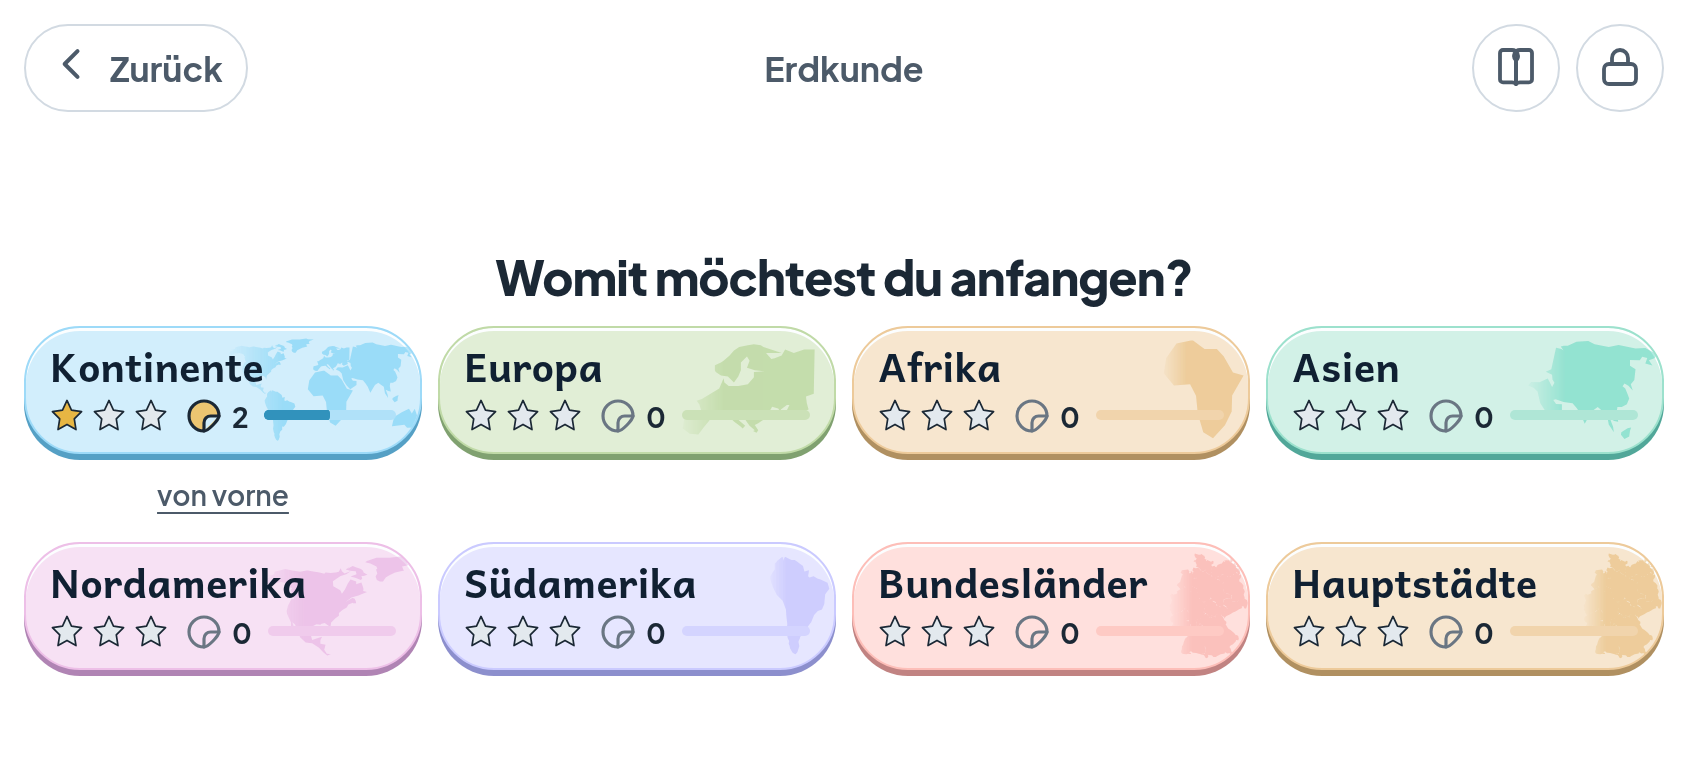
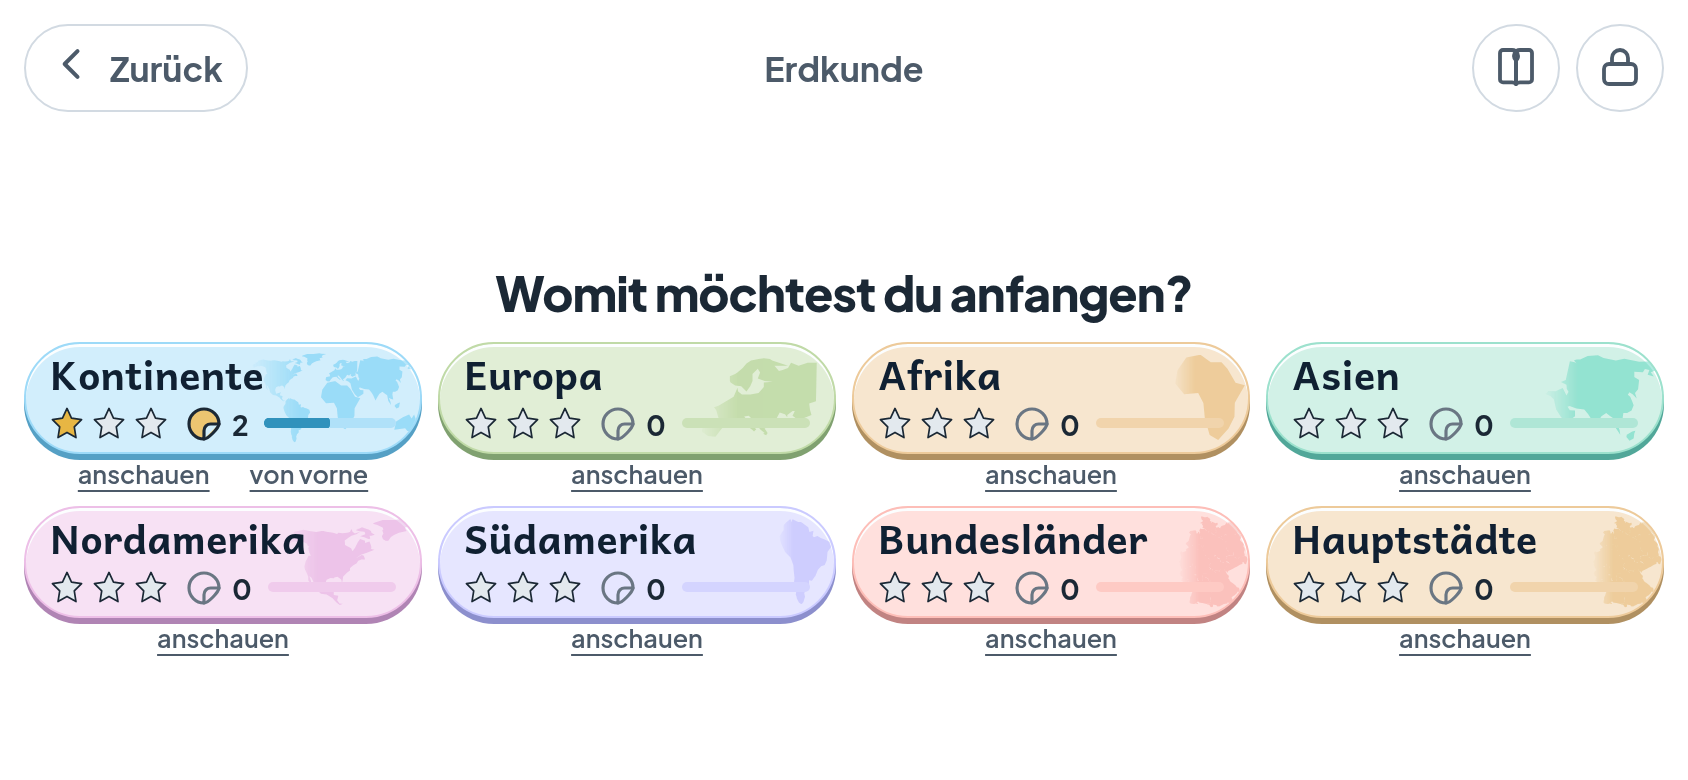
R3: der Vorlauf - anschauen statt raten, und er ersetzt die Stadtstaaten-Einheit

Changed region(s): [[0.0, 0.3385, 0.9858, 0.8923]]

diff --git a/prototyp/spiel.js b/prototyp/spiel.js
@@ -422,7 +422,11 @@ const ebeneArt = (id) => EBENEN.find(e => e.id === id)?.art || 'karte';
 const WEISE_VOREINSTELLUNG = { fiona:'ziehen', lea:'antippen' };
 let P=null, Sitzung=null, Stand={}, Einst={ ton:true, abend:false, sprachmodus:false, pin:'0000',
   antwortweise:{ ...WEISE_VOREINSTELLUNG },
-  stadtstaatenGezeigt:false, hauptstadtAuswahl:true,
+  // Je Kind UND Ebene, nicht ein Schalter fuer alle: der Vorlauf gehoert
+  // zu der Ebene, die er erklaert. `stadtstaatenGezeigt` war der eine
+  // Schalter, den es dafuer gab, und er ist mit der Lerneinheit
+  // weggefallen.
+  vorlaufGezeigt:{}, hauptstadtAuswahl:true,
   // Leas Regler und ihre Eingabeweise beim Rechnen. Beide gehören in die
   // Einstellungen und nicht ins Profil: das Profil sagt, WER spielt, die
   // Einstellung, wie es gerade eingestellt ist.
@@ -464,6 +468,25 @@ function kontinentRunde(stand){
  * las `kontinentRunde` den Stand der zuletzt gespielten Ebene und zeigte auf
  * der Kachel eine falsche Zahl.
  */
+/* Ein Rahmen, der NUR dieses eine Stueck zeigt.
+ *
+ * Stand bis R3 im Forscherbuch und wird seit dem Vorlauf an zwei Stellen
+ * gebraucht - also gehoert er an eine. Gerechnet aus dem Pfad selbst, mit
+ * acht Prozent Luft ringsum: im Rahmen der ganzen Karte ist Bremen
+ * praktisch unsichtbar, und ein Bild, auf dem man die Form nicht erkennt,
+ * ist keins.
+ */
+const eigenerRahmen = (pfad) => {
+  const z = String(pfad).match(/-?\d+\.?\d*/g);
+  if (!z || z.length < 4) return null;
+  let x0=Infinity,y0=Infinity,x1=-Infinity,y1=-Infinity;
+  for (let i=0;i+1<z.length;i+=2){ const x=+z[i], y=+z[i+1];
+    if(x<x0)x0=x; if(x>x1)x1=x; if(y<y0)y0=y; if(y>y1)y1=y; }
+  const b=x1-x0, h=y1-y0; if(!(b>0)||!(h>0)) return null;
+  const luft = Math.max(b,h)*0.08;
+  return `${x0-luft} ${y0-luft} ${b+2*luft} ${h+2*luft}`;
+};
+
 function vorrat(ebeneId, stand = Stand){
   const [art, kont] = ebeneId.split(':');
   if (art==='kontinente') {
@@ -645,8 +668,11 @@ async function ebenenwahl(){
               kleberMarke(b.gesammelt, b.gesamt)}</div>
             ${fortschrittBalken(b)}
           </div>
-        </button>${b.gesammelt ? `
-        <button class="leise mini" data-neu="${b.id}">von vorne</button>` : ''}</div>`).join('')}</div>
+        </button>
+        <div class="kachelknoepfe">
+          <button class="leise mini" data-schau="${b.id}">anschauen</button>${b.gesammelt ? `
+          <button class="leise mini" data-neu="${b.id}">von vorne</button>` : ''}
+        </div></div>`).join('')}</div>
     </div>`;
   // Zurück führt in die Welt, nicht bis zur Profilwahl: sonst wäre die
   // Weltenwahl eine Tür, die nur in eine Richtung aufgeht.
@@ -655,8 +681,13 @@ async function ebenenwahl(){
   s.querySelector('#eltern').onclick=()=>zeige(elternTor);
   s.querySelectorAll('[data-ebene]').forEach(b=>b.onclick=()=>{
     const id=b.dataset.ebene;
-    if (id==='hauptstaedte' && !Einst.stadtstaatenGezeigt) zeige(()=>stadtstaaten(id));
+    // Beim ERSTEN Mal auf dieser Ebene: erst anschauen, dann raten (R3).
+    // Danach nur noch auf Wunsch, ueber den Knopf „anschauen" an der
+    // Kachel - wer eine Ebene kennt, will nicht jedes Mal blaettern.
+    if (!Einst.vorlaufGezeigt[`${P.id}:${id}`]) zeige(()=>vorlauf(id));
     else starten(id); });
+  s.querySelectorAll('[data-schau]').forEach(b=>b.onclick=(ev)=>{
+    ev.stopPropagation(); zeige(()=>vorlauf(b.dataset.schau)); });
 
   // „Von vorne" - und zwar fuer das Kind, nicht hinter der Eltern-PIN.
   //
@@ -693,31 +724,108 @@ async function ebenenwahl(){
   return s;
 }
 
-/* ---------- Die Stadtstaaten-Lerneinheit --------------------------------- */
-function stadtstaaten(danach){
+/* ---------- Der Vorlauf (R3) ---------------------------------------------
+ *
+ * Vor jeder Ebene ein Blättern statt eines Rätsels: alle Gegenstände der
+ * Ebene mit Bild und Namen, antippen liest vor, unten „Jetzt starten".
+ *
+ * Er ERSETZT die Stadtstaaten-Lerneinheit, statt neben sie zu treten.
+ * Die stand bisher allein vor `hauptstaedte`, und zwei
+ * Vorschaltbildschirme hintereinander wären einer zuviel gewesen. Ihre
+ * Form war ohnehin schon die richtige - Titel, ein Satz, ein Gitter aus
+ * Umrissen zum Antippen, ein Knopf. Der Vorlauf ist ihre
+ * Verallgemeinerung, und der erklärende Satz bleibt: er steht jetzt als
+ * der Satz DIESER Ebene da.
+ *
+ * Der Satz wird abgeleitet, nicht je Ebene hingeschrieben — dieselbe
+ * Regel wie beim Kartenhinweis (B15). Sonst hätte die vierte Karte
+ * keinen.
+ *
+ * Die Karten sind die des Forscherbuchs (`.kleber`, `.aufkleber`). Das
+ * ist kein Sparen: es ist derselbe Gegenstand in derselben Sprache, und
+ * ein Kind, das im Buch geblättert hat, erkennt ihn hier wieder.
+ */
+const vorlaufSchluessel = (ebeneId) => `${P.id}:${ebeneId}`;
+
+/** Der eine Satz, den dieser Vorlauf mitgibt. Abgeleitet, nicht gesammelt. */
+function vorlaufSatz(ebeneId){
+  const [art] = ebeneId.split(':');
+  if (art === 'hauptstaedte')
+    return 'Berlin, Hamburg und Bremen fehlen hier: sie sind <strong>Stadtstaaten</strong>, '
+      + 'die Stadt ist das ganze Bundesland. Sie <em>sind</em> ihre Hauptstadt.';
+  if (art === 'rechnen')
+    return 'Schau sie dir in Ruhe an. Antippen sagt dir die Aufgabe und das Ergebnis.';
+  return 'Tippe auf ein Bild, dann sage ich dir, wie es heißt.';
+}
+
+async function vorlauf(ebeneId){
   const s = el('div');
-  const drei = D.deutschland.filter(b=>b.stadtstaat);
-  s.innerHTML = kopf({ links: zurueckKnopf() }) + `
-    <div class="mitte">
-      <div class="titel">Drei sind anders</div>
-      <div class="unter">Berlin, Hamburg und Bremen sind <strong>Stadtstaaten</strong>:
-        die Stadt ist das ganze Bundesland. Sie haben keine eigene Hauptstadt —
-        sie <em>sind</em> ihre Hauptstadt.</div>
-      <div class="wahl eng">${drei.map((b,i)=>`
-        <button class="kachel" data-lesen="${b.name}">
-          <svg class="umriss" viewBox="${D.vbD}" aria-hidden="true">
-            <path d="${b.pfad}" fill-rule="evenodd" fill="var(${VIER[i%4]})"
-                  stroke="var(--tinte)" stroke-width="2" vector-effect="non-scaling-stroke"/></svg>
-          <div class="name" style="font-size:var(--s1)">${b.name}</div>
+  // Erst die Karte holen, DANN den Vorrat lesen.
+  //
+  // `teilen()` schneidet die Pfade aus dem Startbuendel heraus - ohne
+  // `ebeneLaden` hat jedes Stueck ein leeres `pfad`, und der Vorlauf malte
+  // sechzehn Kaesten mit dem Wort „undefined". `starten()` macht dasselbe
+  // in derselben Reihenfolge; wer den Vorrat anfasst, muss vorher laden.
+  if (!(await ebeneLaden(ebeneId))) {
+    s.innerHTML = kopf({ links: zurueckKnopf() }) + `
+      <div class="mitte"><div class="titel">Diese Karte fehlt noch</div>
+      <div class="unter">Sie wird beim ersten Mal aus dem Netz geholt.
+        Probier es noch einmal, wenn du wieder Verbindung hast.</div></div>`;
+    s.querySelector('#zur').onclick = () => zeige(ebenenwahl);
+    return s;
+  }
+  await standLaden(ebeneId);
+  const ebene = EBENEN.find(e => e.id === ebeneId);
+  const stuecke = vorrat(ebeneId);
+  const satz = vorlaufSatz(ebeneId);
+  // Der eigene Rahmen zeigt das Stueck gross; nur wenn er sich aus dem
+  // Pfad nicht rechnen laesst, faellt es auf den Rahmen der ganzen Karte
+  // zurueck - dieselbe Regel wie im Spielbildschirm.
+  const [art, kont] = ebeneId.split(':');
+  const ganzeKarte = art === 'kontinente' ? D.vbK
+    : art === 'laender' ? D.vbL[kont] : D.vbD;
+  const rahmen = (x) => eigenerRahmen(x.pfad) || ganzeKarte;
+  s.innerHTML = kopf({ links: zurueckKnopf(),
+    mitte:`<span class="marke">${ebene ? ebene.titel : 'Anschauen'}</span>` }) + `
+    <div class="rollen vorlauf">
+      <div class="unter mitte-satz">${satz}</div>
+      <div class="kleber">${stuecke.map((x, i) => `
+        <button class="aufkleber da" data-lesen="${vorlaufAnsage(x, ebeneId)}"
+                title="${x.gebiet ? `${x.gebiet}: ${x.name}` : x.name}">
+          ${x.pfad
+            ? `<svg viewBox="${rahmen(x)}" aria-hidden="true"><path d="${x.pfad}" fill-rule="evenodd"
+                fill="var(${FL[i%7]})" stroke="var(--tinte)" stroke-opacity=".6" stroke-width="1.6"
+                vector-effect="non-scaling-stroke"/></svg>`
+            : `<div class="rechenkleber" style="--ton:var(${FL[i%7]})">${x.frage}</div>`}
+          <span>${x.pfad ? x.name : `= ${x.name}`}</span>
+          ${x.gebiet ? `<span class="dazu">${x.gebiet}</span>` : ''}
         </button>`).join('')}</div>
-      <button class="knopf" id="weiter" style="font-size:var(--s1);padding:var(--r3) var(--r8)">Verstanden</button>
+    </div>
+    <div class="reihe vorlauffuss">
+      <button class="knopf haupt" id="los">Jetzt starten</button>
     </div>`;
-  s.querySelector('#zur').onclick=()=>zeige(ebenenwahl);
-  s.querySelectorAll('[data-lesen]').forEach(b=>b.onclick=()=>vorlesen(b.dataset.lesen));
-  s.querySelector('#weiter').onclick=()=>{ Einst.stadtstaatenGezeigt=true; einstSichern(); starten(danach); };
-  vorlesen('Drei sind anders. Berlin, Hamburg und Bremen sind Stadtstaaten.');
+  s.querySelector('#zur').onclick = () => zeige(ebenenwahl);
+  s.querySelectorAll('[data-lesen]').forEach(b => b.onclick = () => vorlesen(b.dataset.lesen));
+  s.querySelector('#los').onclick = () => {
+    Einst.vorlaufGezeigt[vorlaufSchluessel(ebeneId)] = true;
+    einstSichern();
+    starten(ebeneId);
+  };
+  // Der Satz wird ANGESAGT, nicht nur hingeschrieben: Fiona liest nicht.
+  // Die Namen selbst kommen beim Antippen - alle sechzehn am Stück
+  // vorzulesen wäre ein Monolog, kein Blättern.
+  ansagen(`${ebene ? ebene.titel : 'Anschauen'}. ${satz.replace(/<[^>]+>/g, '')} `
+    + 'Wenn du fertig bist, tippe auf „Jetzt starten".');
   return s;
 }
+
+/** Was beim Antippen gesagt wird. Bei den Hauptstädten das PAAR. */
+function vorlaufAnsage(x, ebeneId){
+  if (x.gebiet) return `Die Hauptstadt von ${x.gebiet} ist ${x.name}.`;
+  if (x.frage)  return `${x.frage} ist ${x.name}.`;
+  return x.name;
+}
+
 
 /* ---------- Sitzung starten ---------------------------------------------- */
 /** Ein Keim, der sich reproduzieren laesst. Aus der Uhr geht das nicht. */
@@ -2120,16 +2228,6 @@ async function forscherbuch(){
    *
    * Gerechnet wird aus dem Pfad selbst, mit acht Prozent Luft ringsum.
    */
-  const eigenerRahmen = (pfad) => {
-    const z = String(pfad).match(/-?\d+\.?\d*/g);
-    if (!z || z.length < 4) return null;
-    let x0=Infinity,y0=Infinity,x1=-Infinity,y1=-Infinity;
-    for (let i=0;i+1<z.length;i+=2){ const x=+z[i], y=+z[i+1];
-      if(x<x0)x0=x; if(x>x1)x1=x; if(y<y0)y0=y; if(y>y1)y1=y; }
-    const b=x1-x0, h=y1-y0; if(!(b>0)||!(h>0)) return null;
-    const luft = Math.max(b,h)*0.08;
-    return `${x0-luft} ${y0-luft} ${b+2*luft} ${h+2*luft}`;
-  };
 
   /* Der Aufkleber IST der Umriss - bei einer Karte.
    *

diff --git a/prototyp/vorlage.html b/prototyp/vorlage.html
@@ -171,6 +171,54 @@ body{background:linear-gradient(168deg,var(--grund) 0%,var(--grund-2) 100%);
 @media (hover:hover){.knopf.warnend:hover{
   color:color-mix(in oklab, var(--warn) 72%, var(--tinte));
   border-color:var(--warn);background:var(--warn-h)}}
+/* Der Vorlauf (R3).
+
+   Er borgt sich das Gitter des Forscherbuchs, aber nicht dessen Groesse:
+   dort stehen die paar Stuecke, die schon gesammelt sind, hier ALLE
+   sechzehn eines Bundeslandes auf einmal. Bei 148 Punkten je Karte
+   scrollte das auf dem kleinsten Geraet (iPhone SE quer, 667 x 375) - und
+   `passt` sagt zu Recht, dass ein Kind nicht in einer Liste scrollt, von
+   der es nicht weiss, dass sie weitergeht.
+
+   Also kleiner, aber nicht beliebig klein: 84 Punkte ist die Breite, bei
+   der 16 Stuecke auf dem kleinsten Geraet in drei Reihen stehen. */
+/* `safe center`, nicht `center`.
+   Zentriert man den Inhalt eines Behaelters, der ueberlaeuft, wird er an
+   BEIDEN Enden abgeschnitten - und nach oben kann man nicht scrollen. Der
+   Stadtstaaten-Satz stand bei den Hauptstaedten halb ueber dem oberen
+   Rand. `safe` faellt in dem Fall auf `flex-start` zurueck. */
+.rollen.vorlauf{display:flex;flex-direction:column;gap:var(--r3);
+  align-items:center;justify-content:safe center}
+.rollen.vorlauf .mitte-satz{text-align:center;max-width:52ch}
+.rollen.vorlauf .kleber{grid-template-columns:repeat(auto-fill,minmax(84px,1fr));
+  gap:var(--r2);width:100%;max-width:900px}
+.rollen.vorlauf .aufkleber{padding:var(--r1)}
+.rollen.vorlauf .aufkleber svg{height:34px}
+.rollen.vorlauf .aufkleber .rechenkleber{font-size:var(--s0)}
+/* Der Name wird hier UMGEBROCHEN, nicht abgeschnitten.
+   Im Forscherbuch sind drei Punkte in Ordnung: dort steht, was man schon
+   kennt. Hier soll das Kind den Namen LERNEN, und „Sachsen…" neben einem
+   echten „Sachsen" ist schlimmer als kein Name. */
+.rollen.vorlauf .aufkleber span{white-space:normal;overflow:visible;
+  text-overflow:clip;hyphens:auto;overflow-wrap:break-word;line-height:1.1}
+/* `break-word` und nicht `anywhere`.
+   `anywhere` trennt, sobald es eng wird, und schrieb „Brandenbur / g" -
+   ein einzelner Buchstabe auf einer Zeile. Auf einem Bildschirm, der
+   Namen BEIBRINGEN soll, ist das schlimmer als eng. `break-word` trennt
+   erst, wenn das Wort allein nicht auf eine Zeile passt, und nimmt
+   vorher jede Fuge - „Mecklenburg-" vor „Vorpommern".
+   Damit diese Fuge ueberhaupt in die Karte passt, ist die zweite Zeile
+   kleiner und die Karte im Querformat etwas breiter. */
+.rollen.vorlauf .aufkleber .dazu{font-size:calc(var(--s-klein) * 0.86)}
+/* Das Bundesland unter der Hauptstadt: die ZUORDNUNG ist der Lernstoff
+   dieser Ebene, nicht der Stadtname allein. */
+.aufkleber .dazu{font-family:var(--f-ui);font-size:var(--s-klein);font-weight:600;
+  color:var(--tinte-2);text-align:center;line-height:1.1;
+  overflow:hidden;text-overflow:ellipsis;white-space:nowrap;max-width:100%}
+.vorlauffuss{padding:var(--r3) var(--r4) var(--r4)}
+/* Die zwei kleinen Knoepfe unter einer Kachel. Nebeneinander, damit sie
+   die naechste Reihe nicht nach unten schieben. */
+.kachelknoepfe{display:flex;gap:var(--r2);justify-content:center;flex-wrap:wrap}
 .sterne{display:flex;gap:var(--r1)}
 .fortschritt{font-family:var(--f-ui);font-size:var(--s0);font-weight:600;color:var(--tinte-2);
   font-variant-numeric:tabular-nums}
@@ -756,6 +804,41 @@ code{font-family:ui-monospace,monospace;font-size:.9em;background:var(--linie);
   /* Sterne, Aufkleber und Balken in EINE Zeile - sonst ist die Kachel um
      zwei Zeilen hoeher als vorher, und acht davon passen nicht mehr in
      390 Punkte. Das Tor `passt` hat genau das gemeldet. */
+  /* Der Vorlauf (R3) im kurzen Querformat.
+     Gemessen, nicht geschaetzt: `passt` meldete auf dem iPhone SE quer
+     (667 x 375) elf bis achtundneunzig Punkte Ueberlauf, auf dem
+     Zielgeraet achtundvierzig bei den Hauptstaedten. Die Karten werden
+     deshalb hier kleiner - und nur hier. */
+  .rollen.vorlauf{gap:var(--r1)}
+  .rollen.vorlauf .kleber{gap:var(--r1);
+    grid-template-columns:repeat(auto-fill,minmax(76px,1fr))}
+  /* Ein Vorlauf mit Zuordnung traegt zwei Namen je Karte statt einem -
+     „Mecklenburg-Vorpommern" unter „Schwerin". Er bekommt deshalb
+     breitere Karten; die Zeilenzahl aendert das nicht, denn dreizehn
+     Paare passen auch bei 92 Punkten in zwei Reihen. */
+  .rollen.vorlauf .kleber:has(.dazu){grid-template-columns:repeat(auto-fill,minmax(92px,1fr))}
+  .rollen.vorlauf .aufkleber{padding:2px;gap:0}
+  .rollen.vorlauf .aufkleber svg{height:20px}
+  .rollen.vorlauf .mitte-satz{font-size:calc(var(--s-klein) * 0.95)}
+  .rollen.vorlauf .aufkleber span{font-size:calc(var(--s-klein) * 0.86)}
+  .rollen.vorlauf .aufkleber .dazu{font-size:calc(var(--s-klein) * 0.78)}
+  .vorlauffuss{padding:var(--r2) var(--r4) var(--r3)}
+  /* Die zwei Kachelknoepfe kosten eine Zeile, die es hier nicht gibt:
+     mit „anschauen" lief die Ebenenwahl 24 Punkte ueber den Fensterrand.
+     Kleiner, statt einen der beiden wegzulassen - beides sind Wege, die
+     das Kind sonst nicht hat. */
+  .kachelknoepfe{gap:var(--r1)}
+  .kachelknoepfe .leise.mini{padding:0 var(--r2);min-height:0;
+    font-size:calc(var(--s-klein) * 0.9)}
+  .wahl{gap:var(--r2)}
+  .kachelpaar{gap:2px}
+  /* Die letzten fuenfzehn Punkte fuer den sicheren Bereich.
+     Auf dem iPhone quer MIT Uhr, Akku und Wischstreifen bleiben von 390
+     Punkten noch 348 - und genau dort lag die Ebenenwahl mit dem neuen
+     Knopf „anschauen" 15 Punkte drueber. Geholt werden sie an der
+     Kachelpolsterung, nicht an der Schrift: lesbar muss sie bleiben. */
+  .kachel.bunt{padding:var(--r1) var(--r4)}
+  .kachel .name{line-height:1.05}
   .kachel .kachelfuss{flex-direction:row;align-items:center;gap:var(--r2)}
   .kachel .balken{height:5px;flex:1;min-width:40px}
   .kachel .stand{min-height:0;gap:var(--r2);flex:none}
